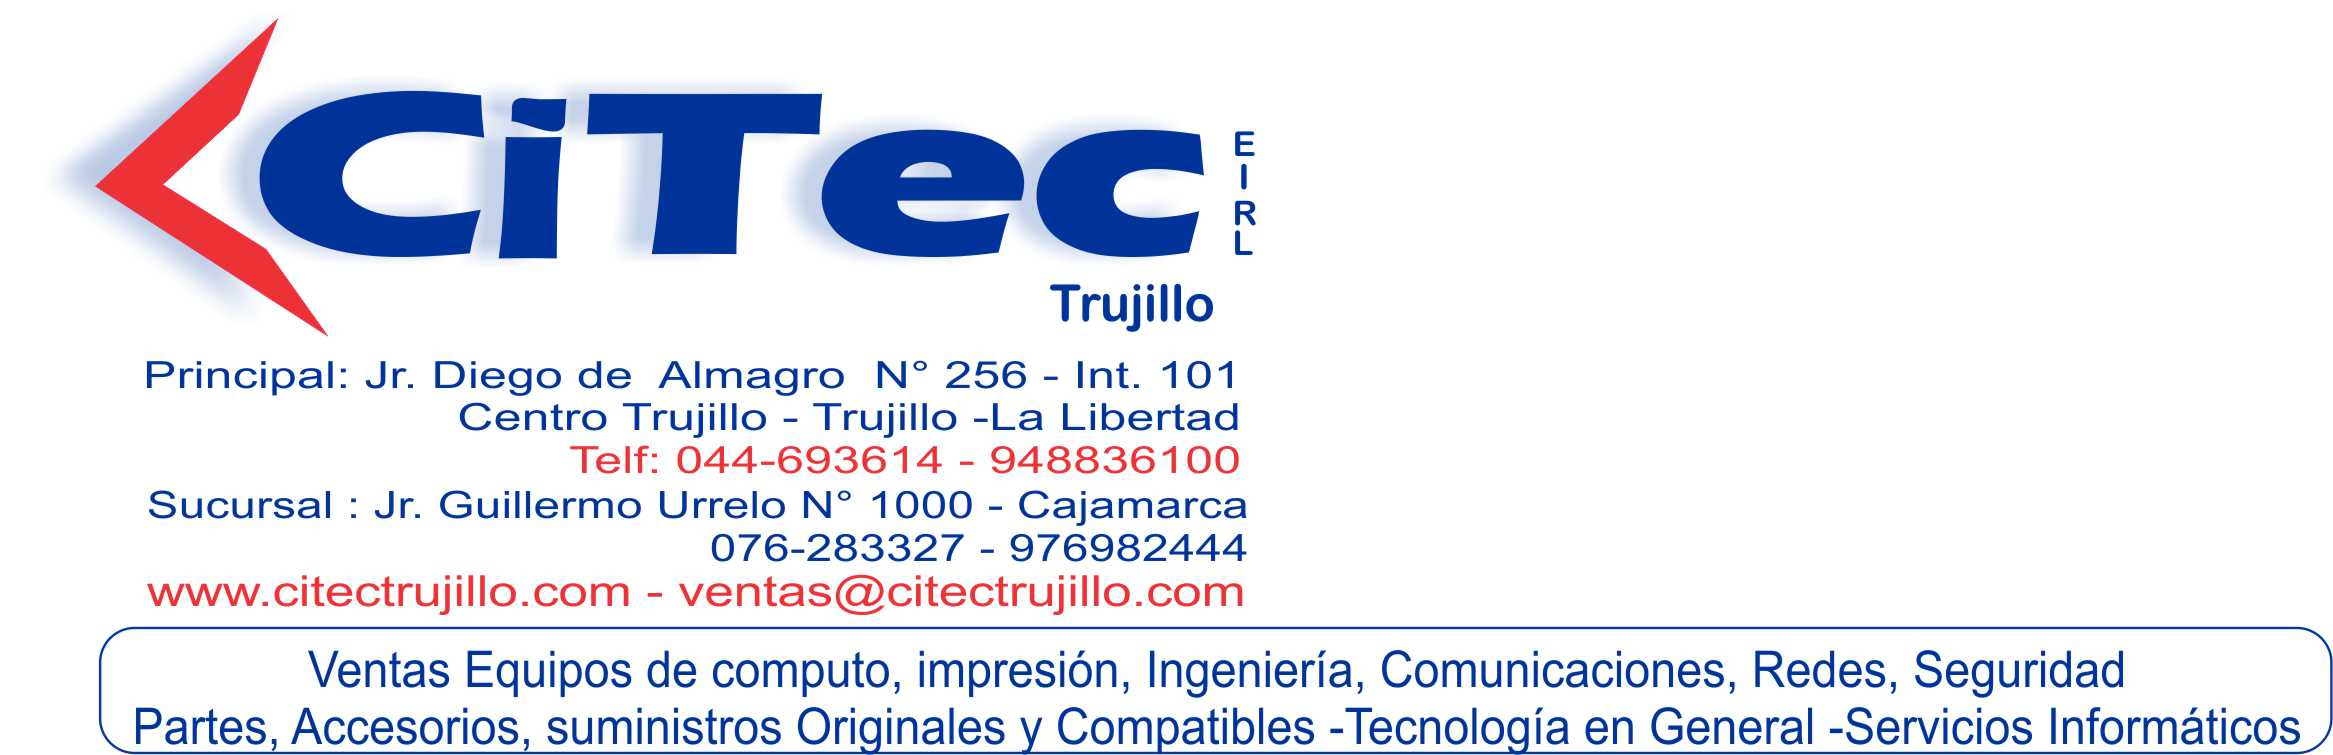
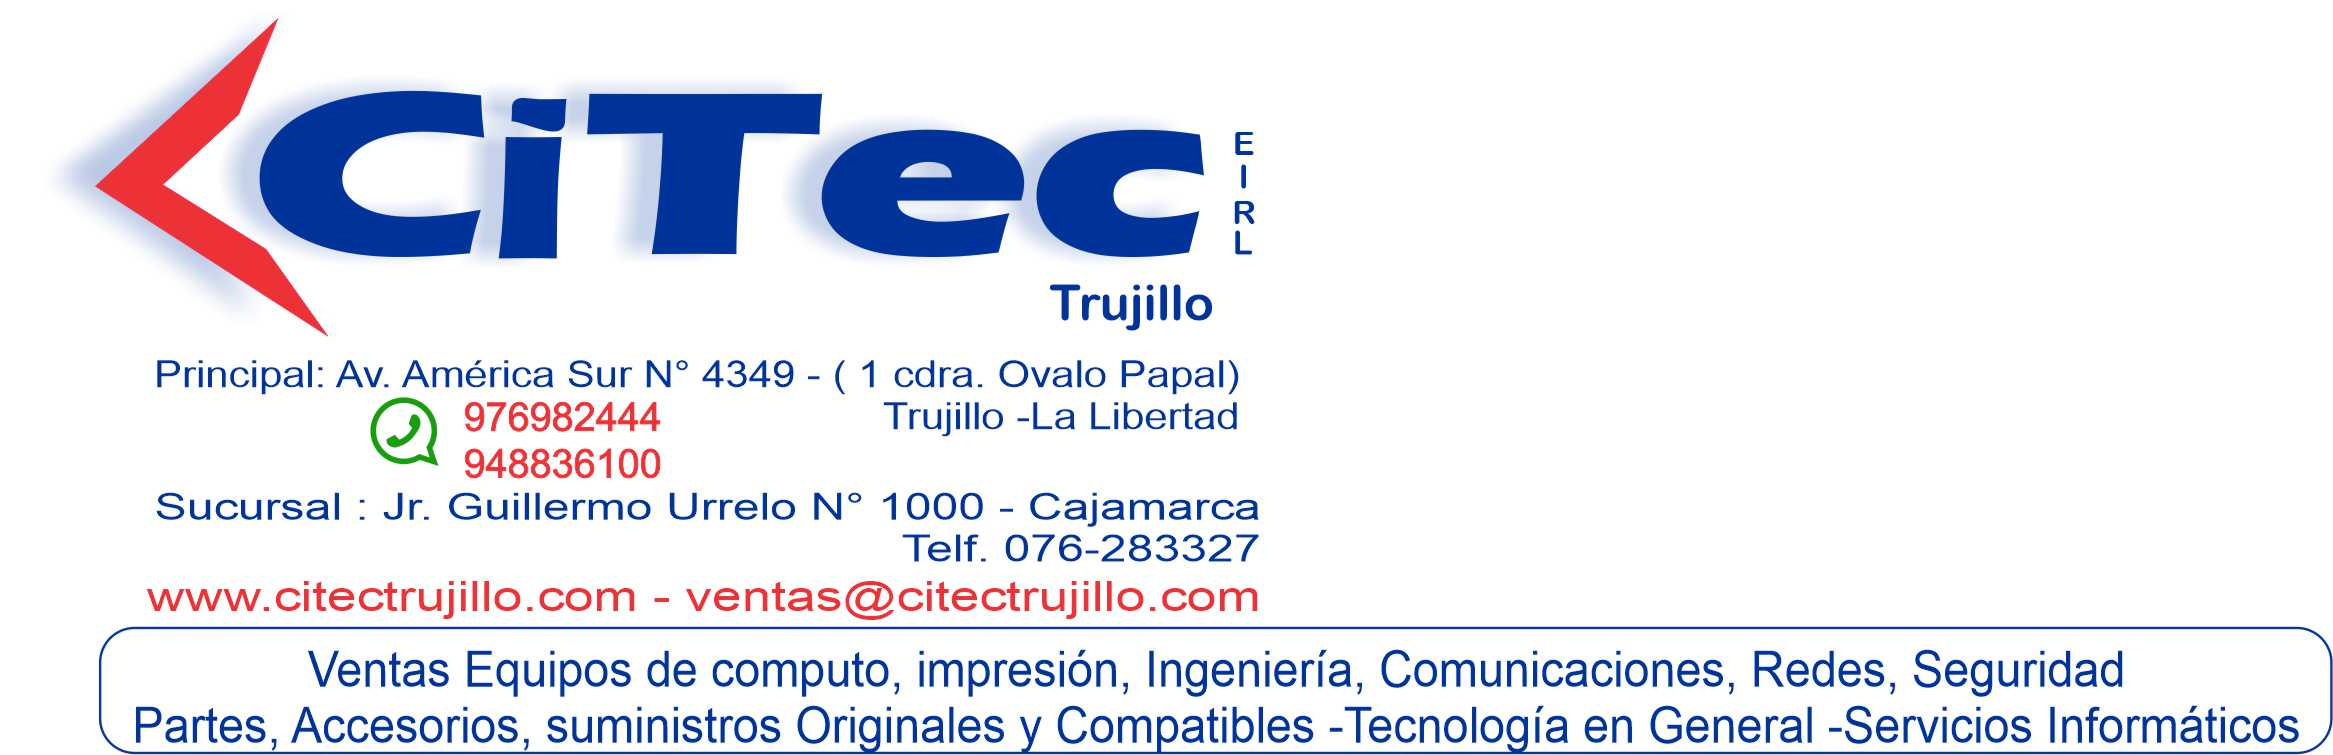
feature | i-816 | membrete template citec

diff --git a/app/CoreFacturalo/Templates/pdf/citec/quotation_a4.blade.php b/app/CoreFacturalo/Templates/pdf/citec/quotation_a4.blade.php
@@ -11,7 +11,7 @@
 
     if($config->formats == "citec")
     {
-        $miimage = app_path('CoreFacturalo'.DIRECTORY_SEPARATOR.'Templates'.DIRECTORY_SEPARATOR.'pdf'.DIRECTORY_SEPARATOR.'citec'.DIRECTORY_SEPARATOR.'pape_membretado.jpg');
+        $miimage = app_path('CoreFacturalo'.DIRECTORY_SEPARATOR.'Templates'.DIRECTORY_SEPARATOR.'pdf'.DIRECTORY_SEPARATOR.'citec'.DIRECTORY_SEPARATOR.'papel_membretado.jpg');
     }
 
 
